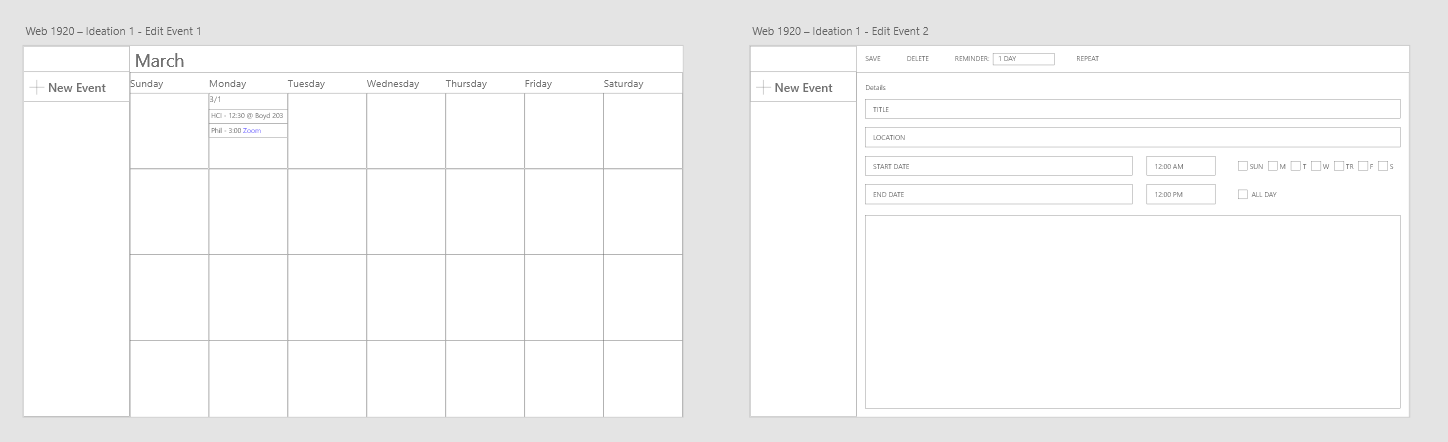
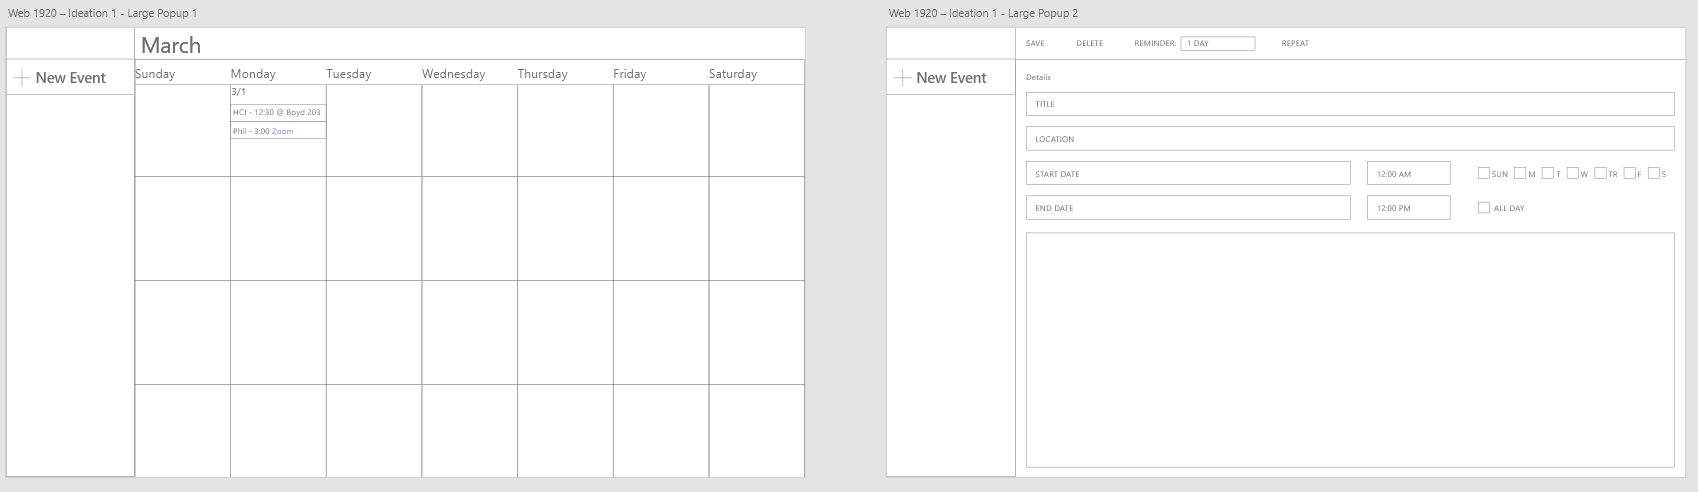
Story 2 - Ideation 2 added

Changed region(s): [[0.0, 0.0, 0.9945, 0.9706], [0.8702, 0.4118, 0.9012, 0.4412]]

diff --git a/milestone3.html b/milestone3.html
@@ -134,32 +134,26 @@
 
                         <li>Story 2: Modify Events/Classes</li>
                         <ol>
-                            <li><a href="Ideations/Story 2 - Ideation 1 edit.png">Ideation 1</a></li>
+                            <li><a href="Ideations/Story 2 - Ideation 1 large popup.png">Ideation 1</a></li>
                             <img src="Ideations/Story 2 - Ideation 1.png" width="1400">
-                            <p>Ideation 1 displays the functionality of editing an event by clicking the event on the
-                                calendar.
-                                The design allows the user to easily edit all the details about an event which is helpful if
-                                an
-                                event gets postponed or if there was a mistake in the details of the event.
+                            <p>Ideation 1 displays the functionality of adding/editing an event by clicking 
+                            the "New Event" button or by double-clicking any event on the calendar.  
+                            The design provides a large pop-up that allows the user to easily add/edit 
+                            all the details about an event. This design helps the user create/edit an 
+                            event and keep track of their schedule. Being able to modify all the classes in a singular spot, such as being able to delete an
+                            event from the calendar, this solution would help students ease into a hybrid synchronous classroom setting. In a sense,
+                            this solution acts as a planner for students to use online. An article from verywellfamily, mentions how the use of
+                            a planner can help "reduce stress" and "increase productivity [3]." Reduce stress and increased productivity are two
+                            crucial things a college student needs when it comes to school in general. With hybrid synchronous classes, easing into this
+                            new classroom setting can be stressful, thus having a calendar interface that can be modifiable to the student's needs
+                            would be a great solution.
                             </p>
-                            <li><a href="Ideations/Story 2 - Ideation 1 add.png">Ideation 2</a></li>
+                            <li><a href="Ideations/Story 2 - Ideation 1 small popup.png">Ideation 2</a></li>
                             <img src="Ideations/Story 2 - Ideation 2.png">
-                            <p>Ideation 2 displays the functionality of adding an event to the calendar by clicking the "New
-                                Event" button.
-                                The design allows the user to easily add an event with all the necessary details and overall
-                                helps the user
-                                keep track of their schedule all on calendar.
-                            </p>
-                            <li><a href="Ideations/Story 2 - Ideation 1 delete.png">Ideation 3</a></li>
-                            <img src="Ideations/Story 2 - Ideation 3.png">
-                            <p>Ideation 3 is supposed to demonstrate the functionality of being able to delete an event from
-                                the calendar solution. Being able to modify all the classes in a singular spot, such as being able to delete an
-                                event from the calendar, this solution would help students ease into a hybrid synchronous classroom setting. In a sense,
-                                this solution acts as a planner for students to use online. An article from verywellfamily, mentions how the use of
-                                a planner can help "reduce stress" and "increase productivity [3]." Reduce stress and increased productivity are two
-                                crucial things a college student needs when it comes to school in general. With hybrid synchronous classes, easing into this
-                                new classroom setting can be stressful, thus having a calendar interface that can be modifiable to the student's needs
-                                would be a great solution.
+                            <p>Ideation 2 also displays the functionality of adding/editing an event by clicking 
+                                on the blank spaces on the calendar or clicking the calendar event. The design 
+                                allows the user to easily access a small pop-up, enabling them to add/edit the 
+                                most important details like the title, date, and location of the event.
                             </p>
                         </ol>
                     </ol>
